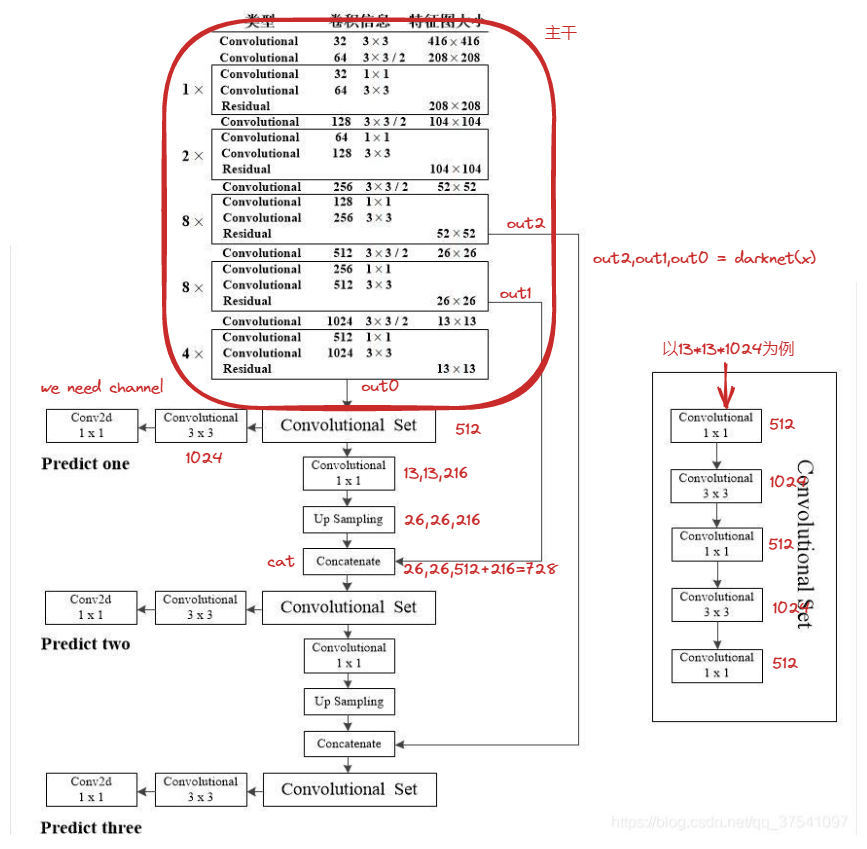
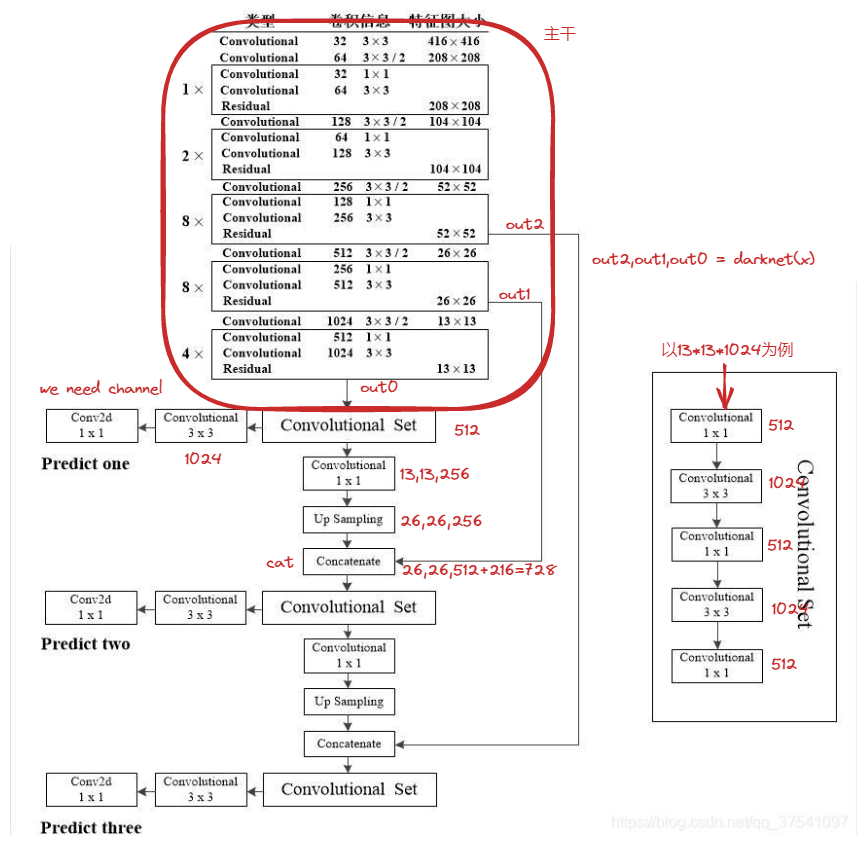
2022/6/25

diff --git a/研究生/目标检测/实现/YOLOv3/yolo3.py b/研究生/目标检测/实现/YOLOv3/yolo3.py
@@ -1,0 +1,125 @@
+from torch import nn
+import torch
+from rich import print
+from darknet import darkNet53
+
+
+class YOLOv3(nn.Module):
+    def __init__(self, anchor_masks, classes_num):
+        """ YOLOv3
+        Args:
+            anchor_masks (list): the anchors shape from kmeans
+            classes_num (int): the number of classes 
+        """
+        super(YOLOv3, self).__init__()
+        self.backbone = darkNet53()
+        # ----------------------------------
+        # convolutional set
+        # 五部分: (kernel_size) 1,3,1,3,1
+        # ----------------------------------
+
+        # ===========================#
+        # conv1
+        # ===========================#
+        self.convolutionalSet0 = self._createConvoltionalSet(1024, 512, 1024)
+        # get 13,13,weneed
+        self.branch_out0 = self._createBranchOut(
+            512, 1024, len(anchor_masks[0])*(classes_num+5))
+        self.branch_down0 = self._createBranchDown(512, 216)
+
+        # ===========================#
+        # conv2
+        # ===========================#\
+        # 注因为经过cat合并输入为(26,26,728)我们在这一部分需要转换为(26,26,216)
+        self.convolutionalSet1 = self._createConvoltionalSet(512, 256, 728)
+        self.branch_out1 = self._createBranchOut(
+            256, 512, len(anchor_masks[1])*(classes_num+5))
+        self.branch_down1 = self._createBranchDown(256, 128)
+
+        # ===========================#
+        # conv3
+        # ===========================#
+        self.convolutionalSet2 = self._createConvoltionalSet(256, 128, 384)
+        self.branch_out2 = self._createBranchOut(
+            128, 256, len(anchor_masks[2])*(classes_num+5))
+
+    def forward(self, x):
+        """_summary_
+
+        Returns:
+            out0: [13,13,need]
+
+        """
+        # out2 : [52,52,256]  out1: [ 26,26,512]  out0:[13,13,1024]
+        out2, out1, out0 = self.backbone(x)
+
+        out0 = self.convolutionalSet0(out0)
+        out0_out = self.branch_out0(out0)  # [13,13,need]
+        out0_down = self.branch_down0(out0)  # [26,26,216]
+        out1 = torch.cat([out0_down, out1], 1)  # [26,26,728]
+
+        out1 =self.convolutionalSet1(out1)
+        out1_out = self.branch_out1(out1)
+        out1_down = self.branch_down1(out1)
+        out2 = torch.cat([out1_down,out2],1)
+        
+        out2 = self.convolutionalSet2(out2)
+        out2_out = self.branch_out2(out2)
+        
+        
+        return out0_out,out1_out,out2_out
+
+    def conv2d(self, channel_in, channel_out, kernel_size):
+        pad = (kernel_size - 1) // 2 if kernel_size else 0
+        return [
+            nn.Conv2d(channel_in, channel_out, kernel_size=kernel_size,
+                      stride=1, padding=pad, bias=False),
+            nn.BatchNorm2d(channel_out),
+            nn.LeakyReLU(0.1)
+        ]
+
+    def _createConvoltionalSet(self, channel_0, channel_1, in_channel):
+        """ convoltionalSet
+        Args:
+            channel_0 (): inner list channel 0
+            channel_1 ():  inner list channel 1
+            in_channel (): input_cha
+        """
+        model_list = self._add_Sequential(self.conv2d(in_channel, channel_1, 1),
+                                          self.conv2d(channel_1, channel_0, 3),
+                                          self.conv2d(channel_0, channel_1, 1),
+                                          self.conv2d(channel_1, channel_0, 3),
+                                          self.conv2d(channel_0, channel_1, 1))
+        # 这里需要将元素解包，因为的值要么是一个个单独的model或者，OrderedDict([])
+        return nn.Sequential(*model_list)
+
+    def _createBranchOut(self, channel_in, channel_out, channel_need):
+        model_list = self._add_Sequential(
+            self.conv2d(channel_in, channel_out, 3),
+            nn.Conv2d(channel_out, channel_need, kernel_size=1,
+                      padding=0, stride=1, bias=True)
+        )
+        return nn.Sequential(*model_list)
+
+    def _createBranchDown(self, channel_in, channel_out):
+        model_list = self._add_Sequential(
+            self.conv2d(channel_in, channel_out, 1),
+            nn.Upsample(scale_factor=2, mode='nearest')
+        )
+        return nn.Sequential(*model_list)
+
+    # 因为Sequential里面不能添加Sequential，因此我们将conv2d里的元素组合为一个list
+    def _add_Sequential(self, *args):
+        model_list = []
+        for i in args:
+            if type(i) == list:
+                model_list.extend(i)
+            else:
+                model_list.append(i)
+        return model_list
+
+
+model = YOLOv3([[1, 2, 3], [1, 2, 3], [1, 2, 3]], 20)
+x = torch.ones([1, 3, 416, 416])
+out0,out1,out2 = model(x)
+print(out0.shape,out1.shape,out2.shape)

diff --git a/研究生/目标检测/实现/YOLOv3/yolo3_md.py b/研究生/目标检测/实现/YOLOv3/yolo3_md.py
@@ -1,0 +1,87 @@
+from collections import OrderedDict
+import torch 
+from torch import nn
+from rich import print
+from darknet import darkNet53
+
+def conv2d(filter_in, filter_out, kernel_size):
+    pad = (kernel_size - 1) // 2 if kernel_size else 0
+    return nn.Sequential(OrderedDict([
+        ("conv", nn.Conv2d(filter_in, filter_out, kernel_size=kernel_size, stride=1, padding=pad, bias=False)),
+        ("bn", nn.BatchNorm2d(filter_out)),
+        ("relu", nn.LeakyReLU(0.1)),
+    ]))
+
+def make_last_layers(filter_list,in_filter,out_filters):
+        m = nn.ModuleList([
+            conv2d(in_filter,filter_list[0],1),
+            conv2d(filter_list[0],filter_list[1],3),
+            conv2d(filter_list[1],filter_list[0],1),
+            conv2d(filter_list[0],filter_list[1],3),
+            conv2d(filter_list[1],filter_list[0],1),
+            conv2d(filter_list[0],filter_list[1],3),
+            #调整通道数
+            nn.Conv2d(filter_list[1],out_filters,kernel_size=1,stride=1,padding=0,bias=True)
+        ])
+        
+        return m
+
+class YoloBody(nn.Module):
+    def __init__(self,config):
+        super(YoloBody,self).__init__()
+        self.config = config 
+        self.backbone = darkNet53()
+        out_filters = self.backbone.layers_out_filters
+        #就是每个grad cell的输出 : 3*25 原文为3*(5+80)
+        final_out_filter0 = len(config['yolo']['anchor'][0]) * (5+config["yolo"]["classes"])
+        self.last_layer0 = make_last_layers([512,1024],out_filters[-1],final_out_filter0)
+        
+        final_out_filter1 = len(config['yolo']['anchor'][1]) * (5+config["yolo"]["classes"])
+        self.last_layer1_conv = conv2d(512,256,1)
+        self.last_layer1_upSample = nn.Upsample(scale_factor=2,mode='nearest')
+        self.last_layer1 = make_last_layers([256,512],out_filters[-2]+256,final_out_filter1)
+        
+        
+        final_out_filter2 = len(config['yolo']['anchor'][2]) * (5+config["yolo"]["classes"])
+        self.last_layer2_conv = conv2d(256,128,1)
+        self.last_layer2_upSample = nn.Upsample(scale_factor=2,mode='nearest')
+        self.last_layer2 = make_last_layers([128,256],out_filters[-3]+128,final_out_filter2)
+    
+    def forward(self,x):
+        #该函数的作用是将卷积之后的结果分成两部分
+        def _branch(last_layer,layer_in):
+            for i ,e in enumerate(last_layer):
+                layer_in = e(layer_in)
+                if i == 4:
+                    out_branch = layer_in
+            return layer_in,out_branch
+        # [52,52,256]  [26,26,512]  [13,13,1024]
+        x2,x1,x0 = self.backbone(x)
+        
+        out0,out0_branch = _branch(self.last_layer0,x0)
+        
+        x1_in = self.last_layer1_conv(out0_branch)
+        x1_in = self.last_layer1_upSample(x1_in)
+        print(f"x1_in,x1",x1_in.shape,x1.shape)
+        x1_in = torch.cat([x1_in,x1],1)
+        out1,out1_branch= _branch(self.last_layer1,x1_in)
+        print(f"after cat x1:",x1_in.shape,out1.shape)
+        x2_in = self.last_layer2_conv(out1_branch)
+        x2_in = self.last_layer2_upSample(x2_in)
+        x2_in = torch.cat([x2_in,x2],1)
+        out2,_ = _branch(self.last_layer2,x2_in)
+        return out0,out1,out2
+        
+config = {
+    'yolo' :{
+        'anchor':[
+            [0,1,2],
+            [0,1,2],
+            [0,1,2]],
+        'classes' : 20
+    }
+    
+} 
+model = YoloBody(config)
+x = torch.ones([1,3,416,416])
+x1,x2,x3 = model(x)

diff --git a/研究生/目标检测/实现/YOLOv3/darknet.py b/研究生/目标检测/实现/YOLOv3/darknet.py
@@ -1,0 +1,96 @@
+from collections import OrderedDict
+import torch
+from torch import nn
+
+# ===========================
+# 残差模块
+# ===========================
+class residualNet(nn.Module):
+    def __init__(self, inplanes, planes) :
+        super(residualNet,self).__init__()
+        self.conv1  = nn.Conv2d(inplanes, planes[0], kernel_size=1, stride=1, padding=0, bias=False)
+        self.bn1    = nn.BatchNorm2d(planes[0])
+        self.relu1  = nn.LeakyReLU(0.1)
+        
+        self.conv2  = nn.Conv2d(planes[0], planes[1], kernel_size=3, stride=1, padding=1, bias=False)
+        self.bn2    = nn.BatchNorm2d(planes[1])
+        self.relu2  = nn.LeakyReLU(0.1)
+        
+    def forward(self,x):
+        residual = x
+
+        out = self.conv1(x)
+        out = self.bn1(out)
+        out = self.relu1(out)
+
+        out = self.conv2(out)
+        out = self.bn2(out)
+        out = self.relu2(out)
+
+        out += residual
+        return out
+        
+
+
+# ===========================
+# 主干网络
+# ===========================
+class DarkNet(nn.Module):
+    
+    def __init__(self,layers):
+        super(DarkNet,self).__init__()
+        self.inplanes = 32
+        #这个就是第二层哪个[416，416，3]  == > [416,416,32]
+        self.conv1 = nn.Conv2d(3,32,kernel_size=3 , 
+                            stride=1 ,padding=1,bias=False) 
+        self.bn1 = nn.BatchNorm2d(32)
+        self.relu1 = nn.LeakyReLU(0.1)
+        
+        #残差模块
+        # 416,416,32 -> 208,208,64
+        self.layer1 = self._make_layer([32, 64], layers[0])
+        # 208,208,64 -> 104,104,128
+        self.layer2 = self._make_layer([64, 128], layers[1])
+        # 104,104,128 -> 52,52,256
+        self.layer3 = self._make_layer([128, 256], layers[2])
+        # 52,52,256 -> 26,26,512
+        self.layer4 = self._make_layer([256, 512], layers[3])
+        # 26,26,512 -> 13,13,1024
+        self.layer5 = self._make_layer([512, 1024], layers[4])
+
+        self.layers_out_filters = [64, 128, 256, 512, 1024]
+        
+        
+    def forward(self,x):
+        x = self.conv1(x)
+        x = self.bn1(x)
+        x = self.relu1(x)
+
+        x = self.layer1(x)
+        x = self.layer2(x)
+        out3 = self.layer3(x)
+        out4 = self.layer4(out3)
+        out5 = self.layer5(out4)
+        #输出5个特征图
+        return out3, out4, out5
+
+    #构建残差网络
+    def _make_layer(self,planes,layer_num):
+        layers = []
+        layers.append(("ds_conv", nn.Conv2d(self.inplanes, planes[1], kernel_size=3, stride=2, padding=1, bias=False)))
+        layers.append(("ds_bn", nn.BatchNorm2d(planes[1])))
+        layers.append(("ds_relu", nn.LeakyReLU(0.1)))
+        # 加入残差结构
+        self.inplanes = planes[1]
+        for i in range(0, layer_num):
+            layers.append(("residual_{}".format(i), residualNet(self.inplanes, planes)))
+
+        return nn.Sequential(OrderedDict(layers))
+
+def darkNet53():
+    m = DarkNet([1,2,8,8,4])
+    return  m
+
+m = darkNet53()
+# print(m.layers_out_filters)
+

diff --git a/研究生/目标检测/实现/YOLOv3/train.py b/研究生/目标检测/实现/YOLOv3/train.py
@@ -1,0 +1,12 @@
+import torch 
+from torch import nn
+
+
+#----------------------------------
+# darknet--out ==>
+#  (out0[52,52,256],out1[26,26,1025],out3[13,13,1024])
+#  
+# 以 256为例  
+# convolutional set (out_channel,)==>
+#     
+#----------------------------------

diff --git a/研究生/目标检测/实现/YOLOv3/YOLOv3.md b/研究生/目标检测/实现/YOLOv3/YOLOv3.md
@@ -31,3 +31,13 @@ https://blog.csdn.net/weixin_44791964/article/details/105310627
 
 ![new](img/1.png)
 
+注意点：
+
+- `nn.Sequential里面不可以直接使用Sequential`
+
+主干网络见`./darknet.py`
+
+中体结构`./yolo3.py`
+
+## 2. 解码过程
+
